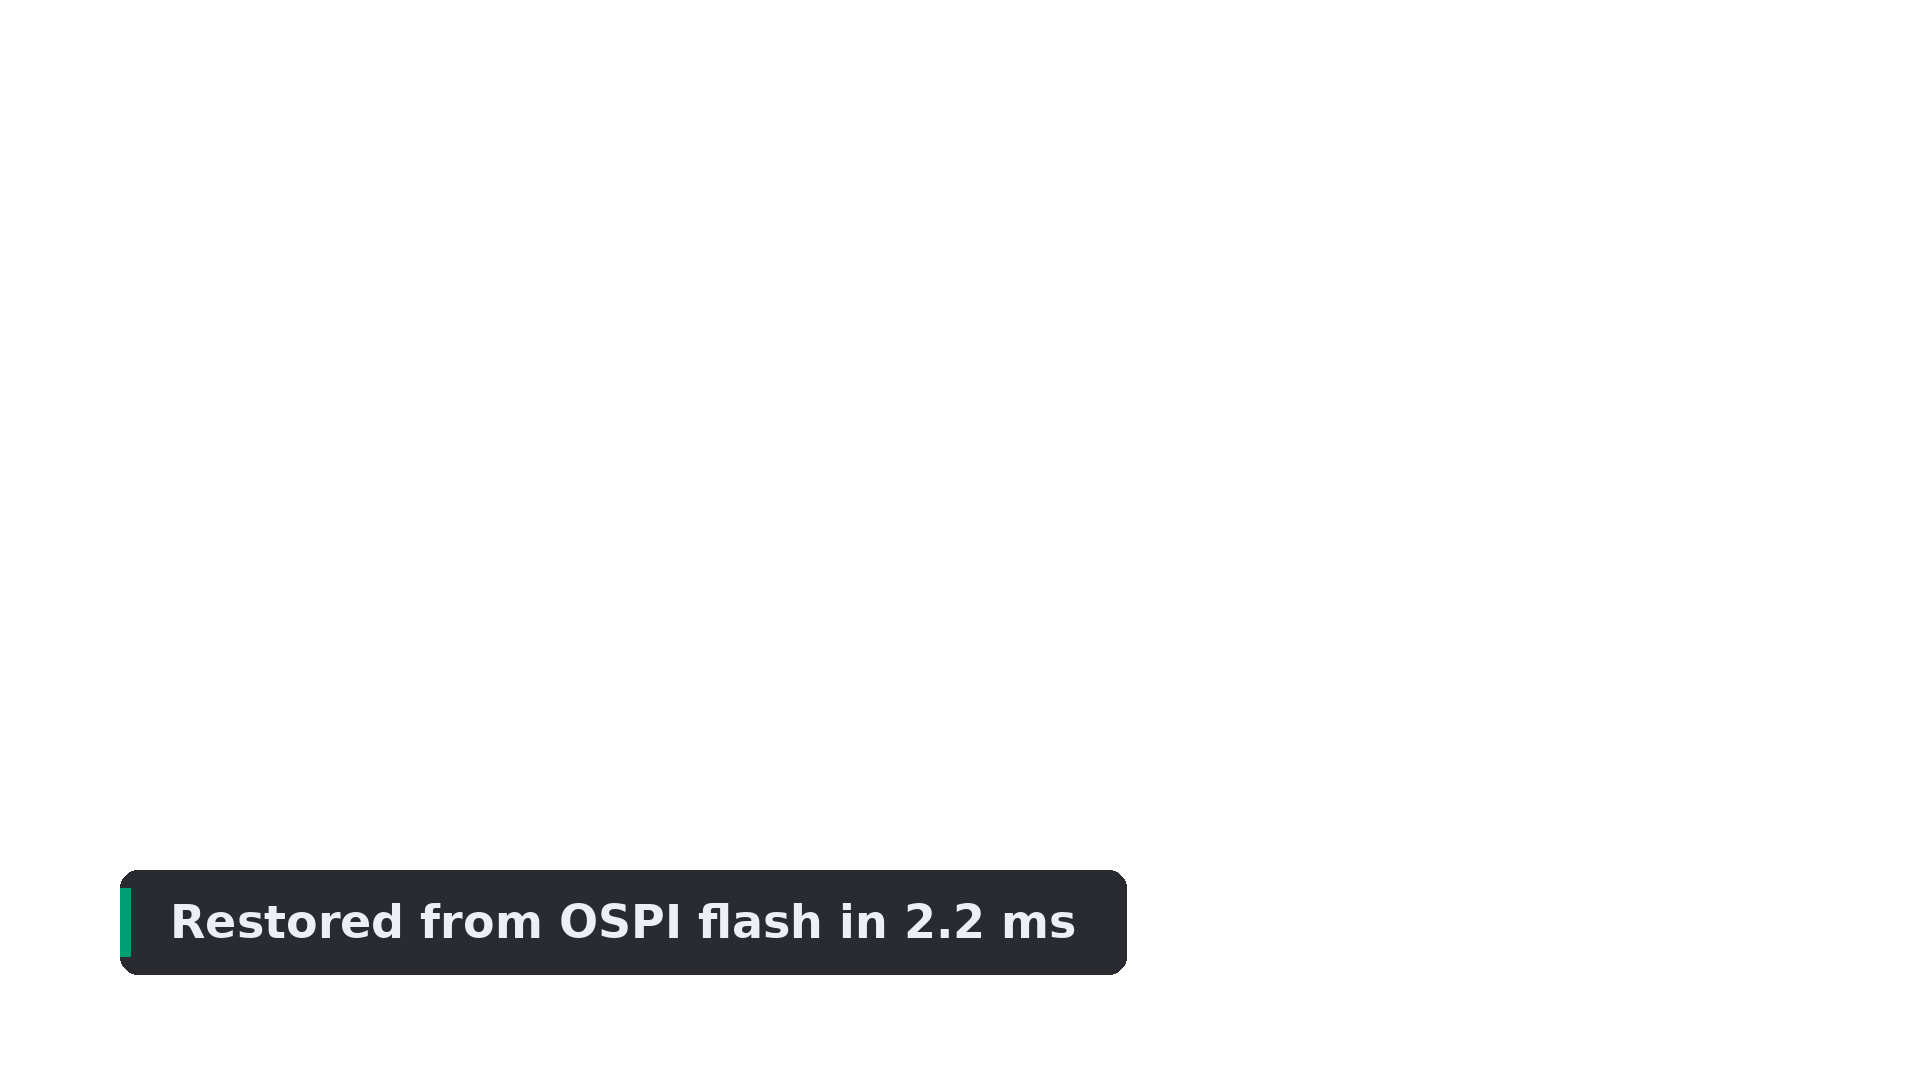
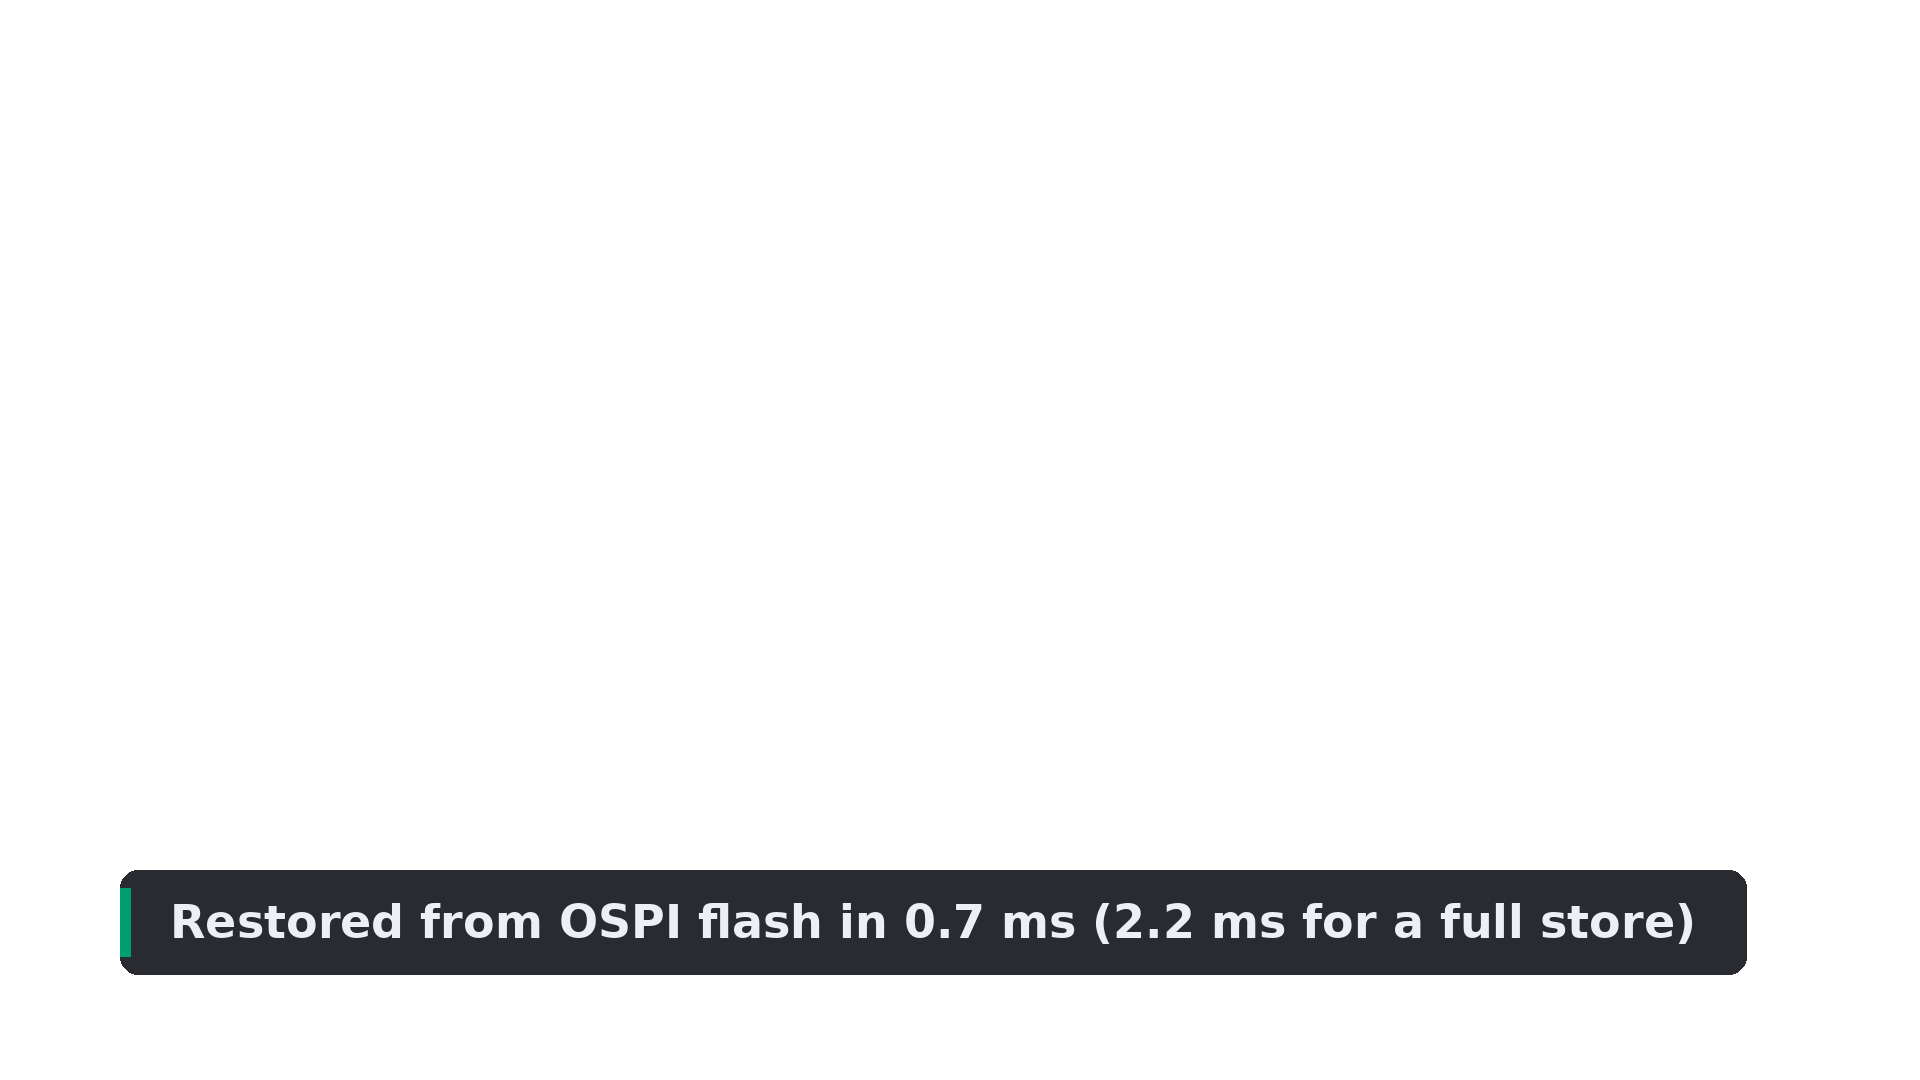
[desk] VIDEO-SCRIPT seg 7: restore time as recorded (0.7 ms for 2 sounds; 2.2 ms full store); captions and overlay rebuilt

Changed region(s): [[0.5625, 0.7944, 0.9375, 0.9167], [0.4688, 0.825, 0.5, 0.8861]]

diff --git a/docs/VIDEO-SCRIPT.md b/docs/VIDEO-SCRIPT.md
@@ -130,9 +130,11 @@ overlay text for the edit.
 
 - **Shot:** press reset. The Ready screen's **Saved sounds** row says the taught sounds were
   restored (2 with the Doorbell already on the board). Jingle the keys: **Keys** alert.
-- **VO:** "Now I reset the board. The self-test restores the taught sounds from flash, in two
-  milliseconds. Jingle again, and it still knows my keys."
-- **On screen:** "Restored from OSPI flash in 2.2 ms"
+- **VO:** "Now I reset the board. The self-test restores the taught sounds from flash in under a
+  millisecond. Jingle again, and it still knows my keys."
+- **On screen:** "Restored from OSPI flash in 0.7 ms (2.2 ms for a full store)"
+- **As recorded (1:33-1:45 PM):** 2 taught sounds restored in 0.7 ms, Ready in 1.48 s, Keys alert
+  at 0.74 (`gates/video_takes.txt`).
 
 ### 8. Timeline and fixing a mistake (3:10-3:32)
 
